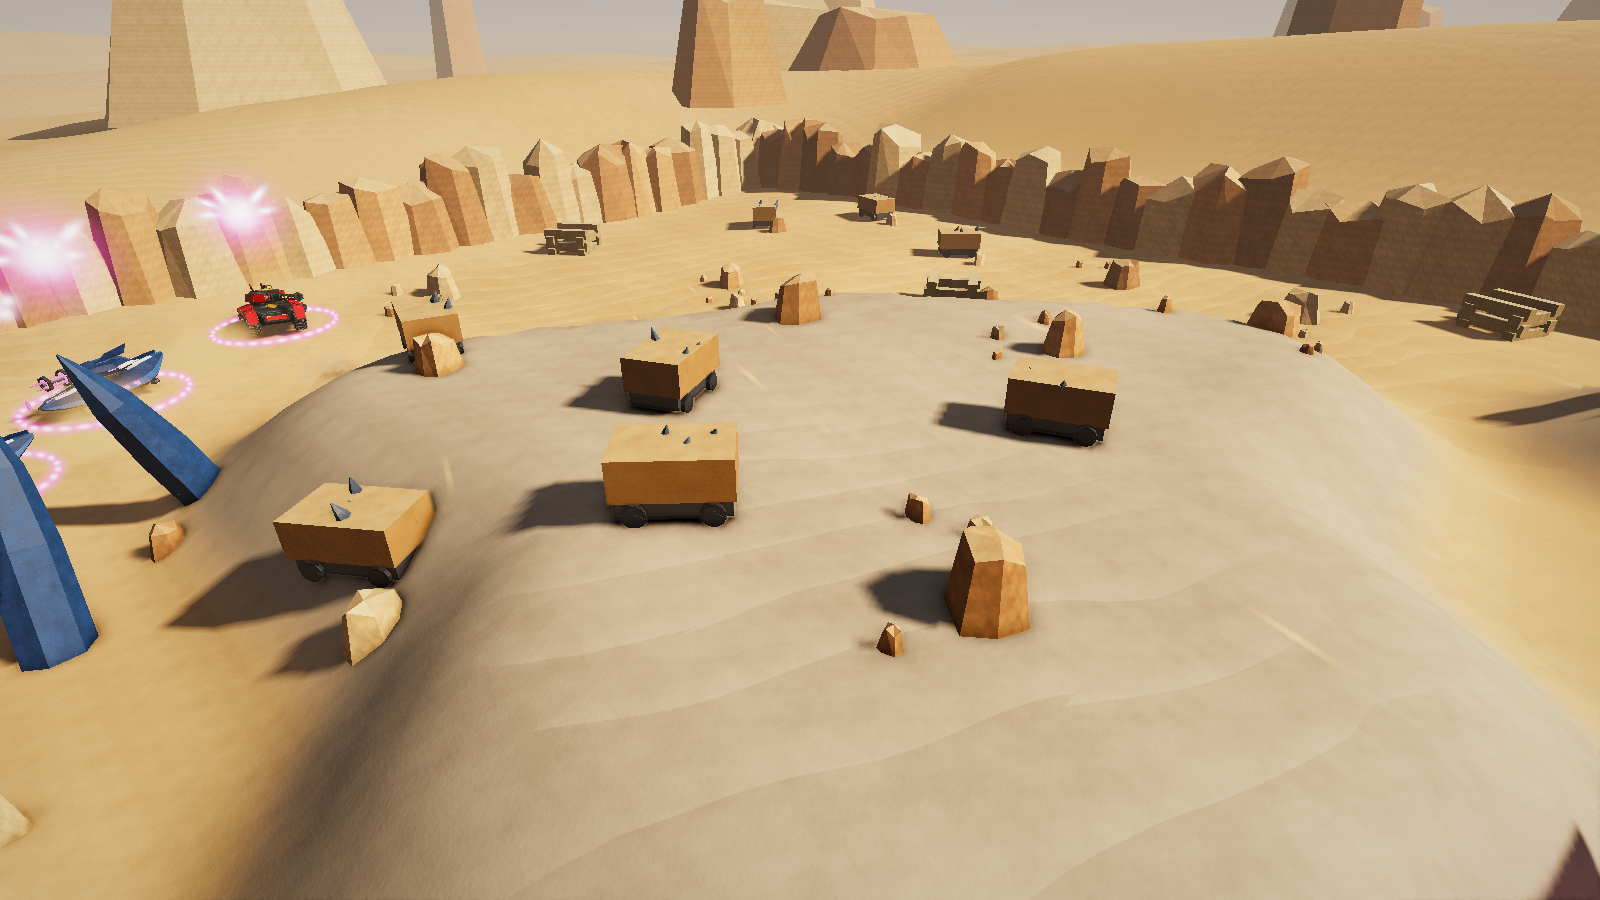
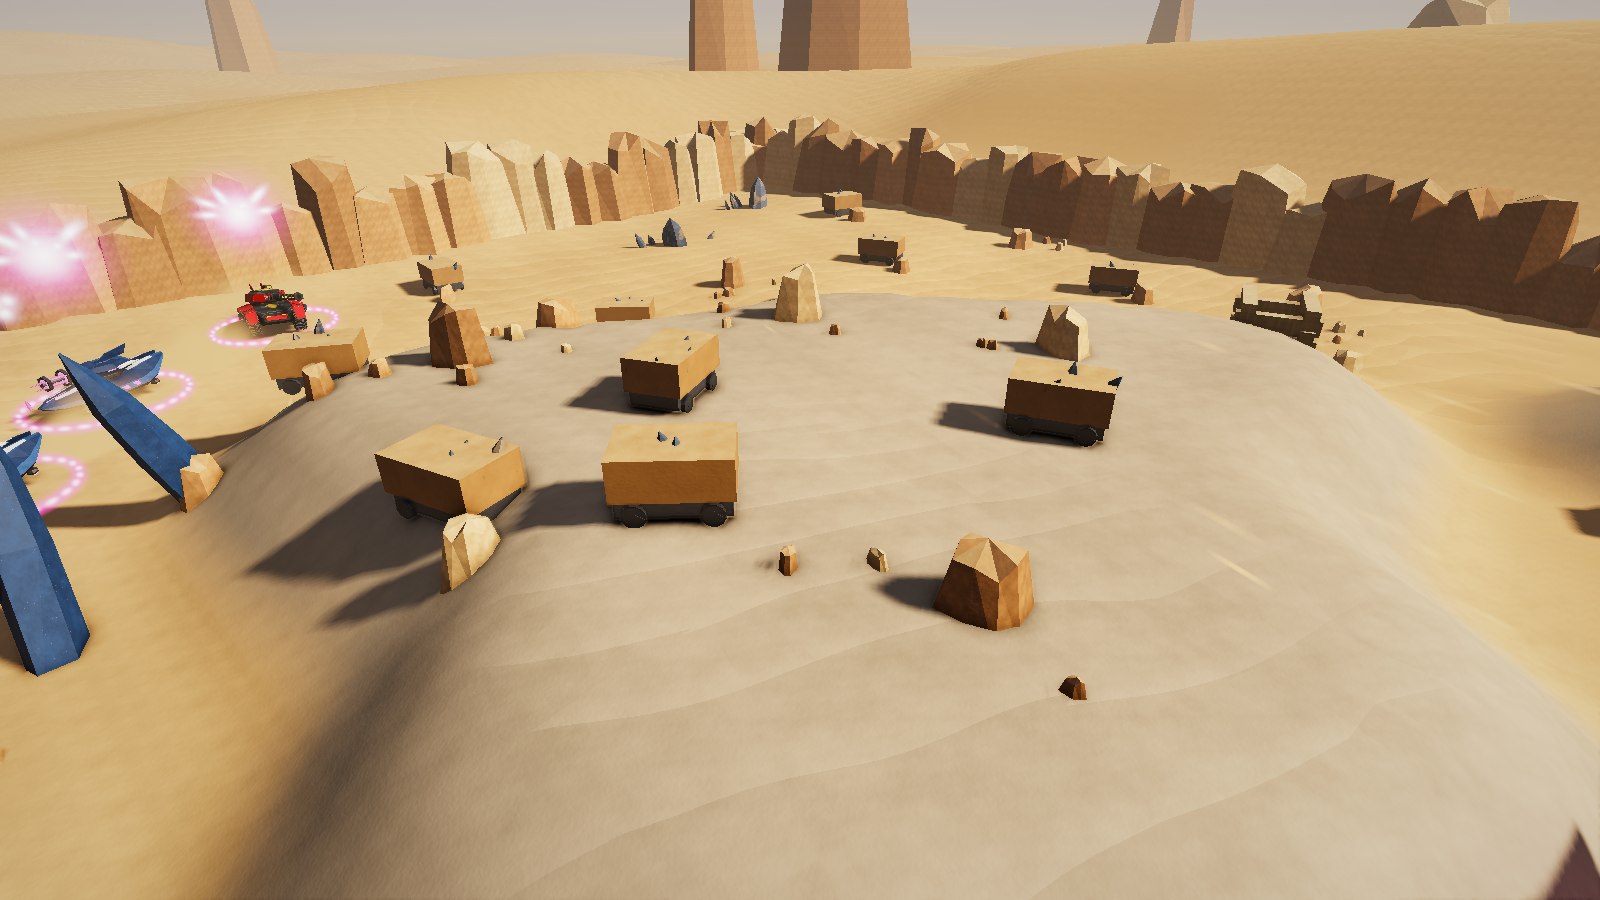
Seam: carts keep the old cart's colliders, so the map's fill lays out as before
Main's fill put a cart where the warehouse run ends; with the narrower
iron frame as the cart's solid, the fill laid out differently there and
a tank drove up a timber stack (tanks_drive_through_the_warehouse). The
cart now collides as hidden boxes exactly the old frame's and tub's
size; the drawn frame is visual only. Solid boxes match main's, all
1099 of them. Screenshots redone after the heap rework.

Claude-Session: https://claude.ai/code/session_01MEmTqCLZfEBjCsZUj9aDhe

diff --git a/src/map/mine.rs b/src/map/mine.rs
@@ -2704,7 +2704,7 @@ impl Map {
             Vec3::new(0.7, 0.1, 1.45),
             IRON,
             Material::Rust,
-            true,
+            false,
         );
         for z in [-1.0, 1.0] {
             let a = rig.point(Vec3::new(-0.92, 0.35, z));
@@ -2825,7 +2825,10 @@ impl Map {
                 false,
             );
         }
-        // What tanks hit: the tub, as before.
+        // What tanks hit: the old cart's frame and tub, exactly. The fill
+        // that places cover after reads these, so the rest of the map keeps
+        // its layout.
+        self.hidden_part(&rig, Vec3::new(0.0, 0.5, 0.0), Vec3::new(0.9, 0.25, 1.5));
         self.hidden_part(&rig, Vec3::new(0.0, 1.35, 0.0), Vec3::new(1.05, 0.6, 1.6));
         // The ore, heaped over the rim, highest down the middle.
         self.heaped_ore(
